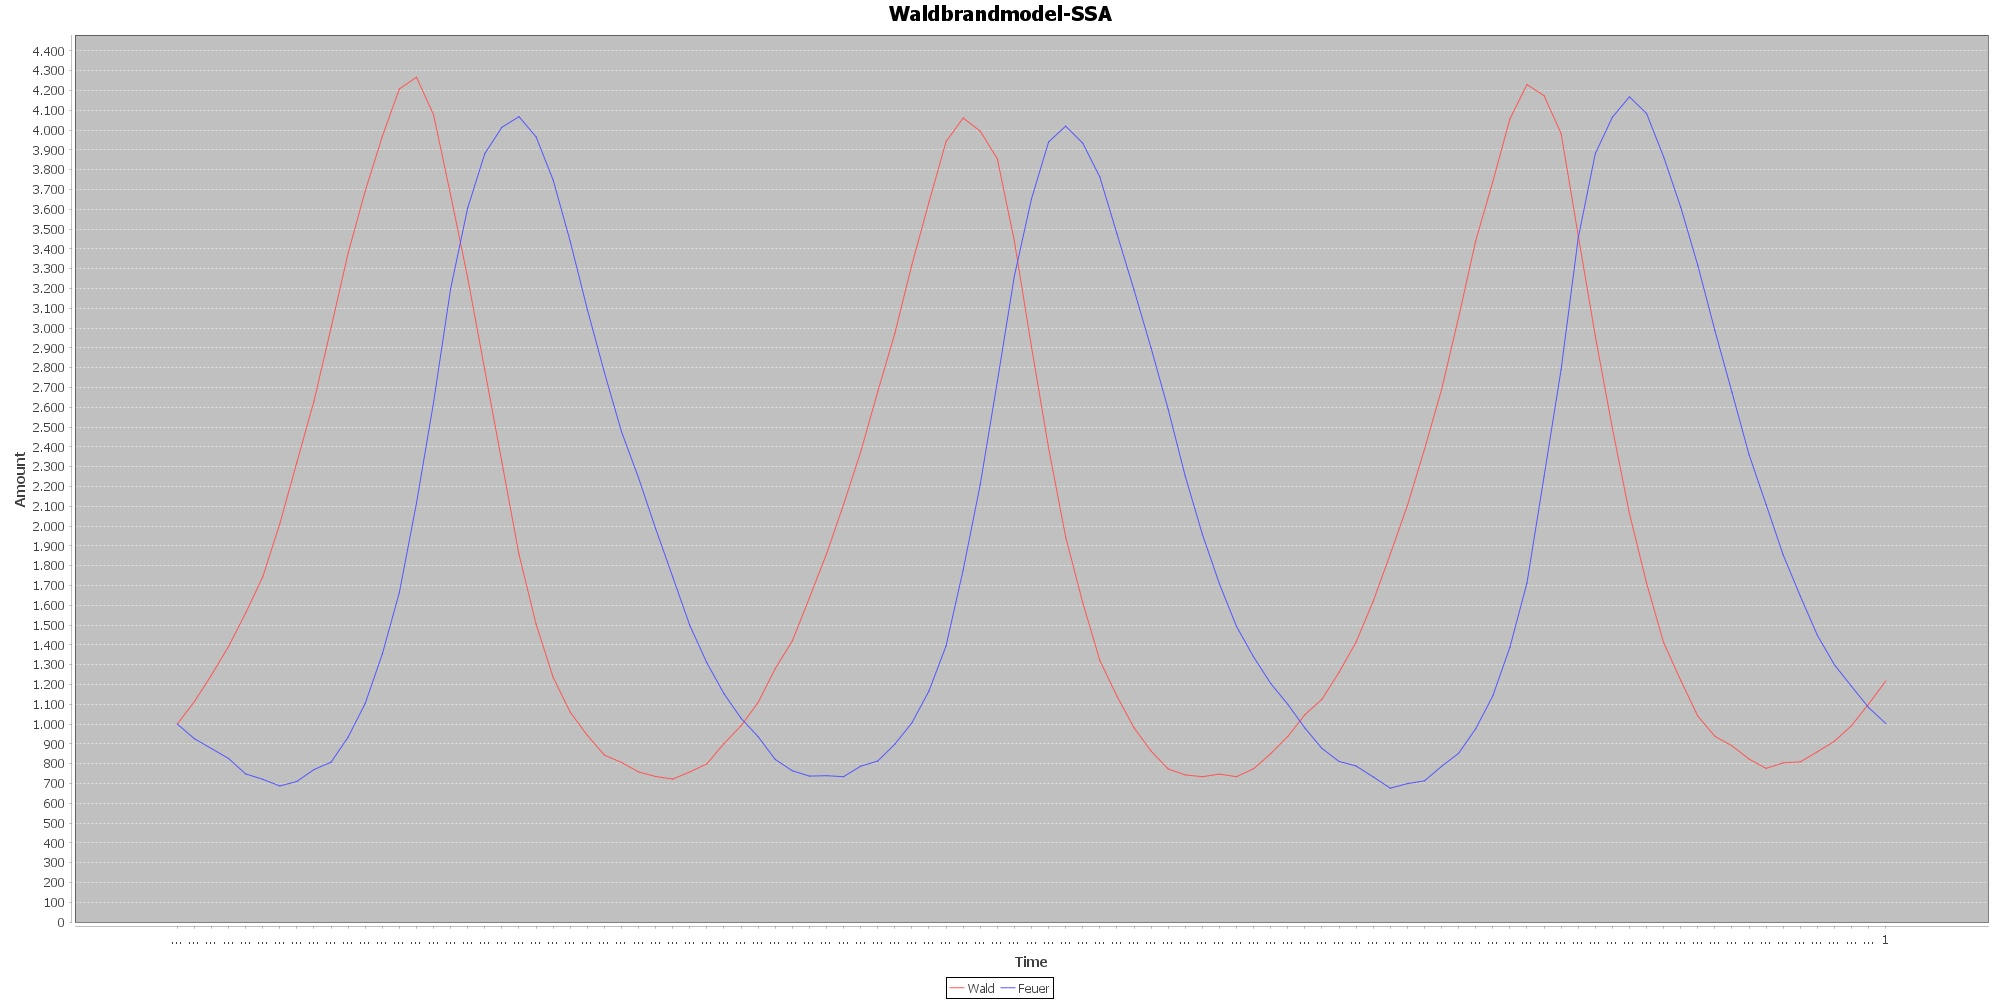
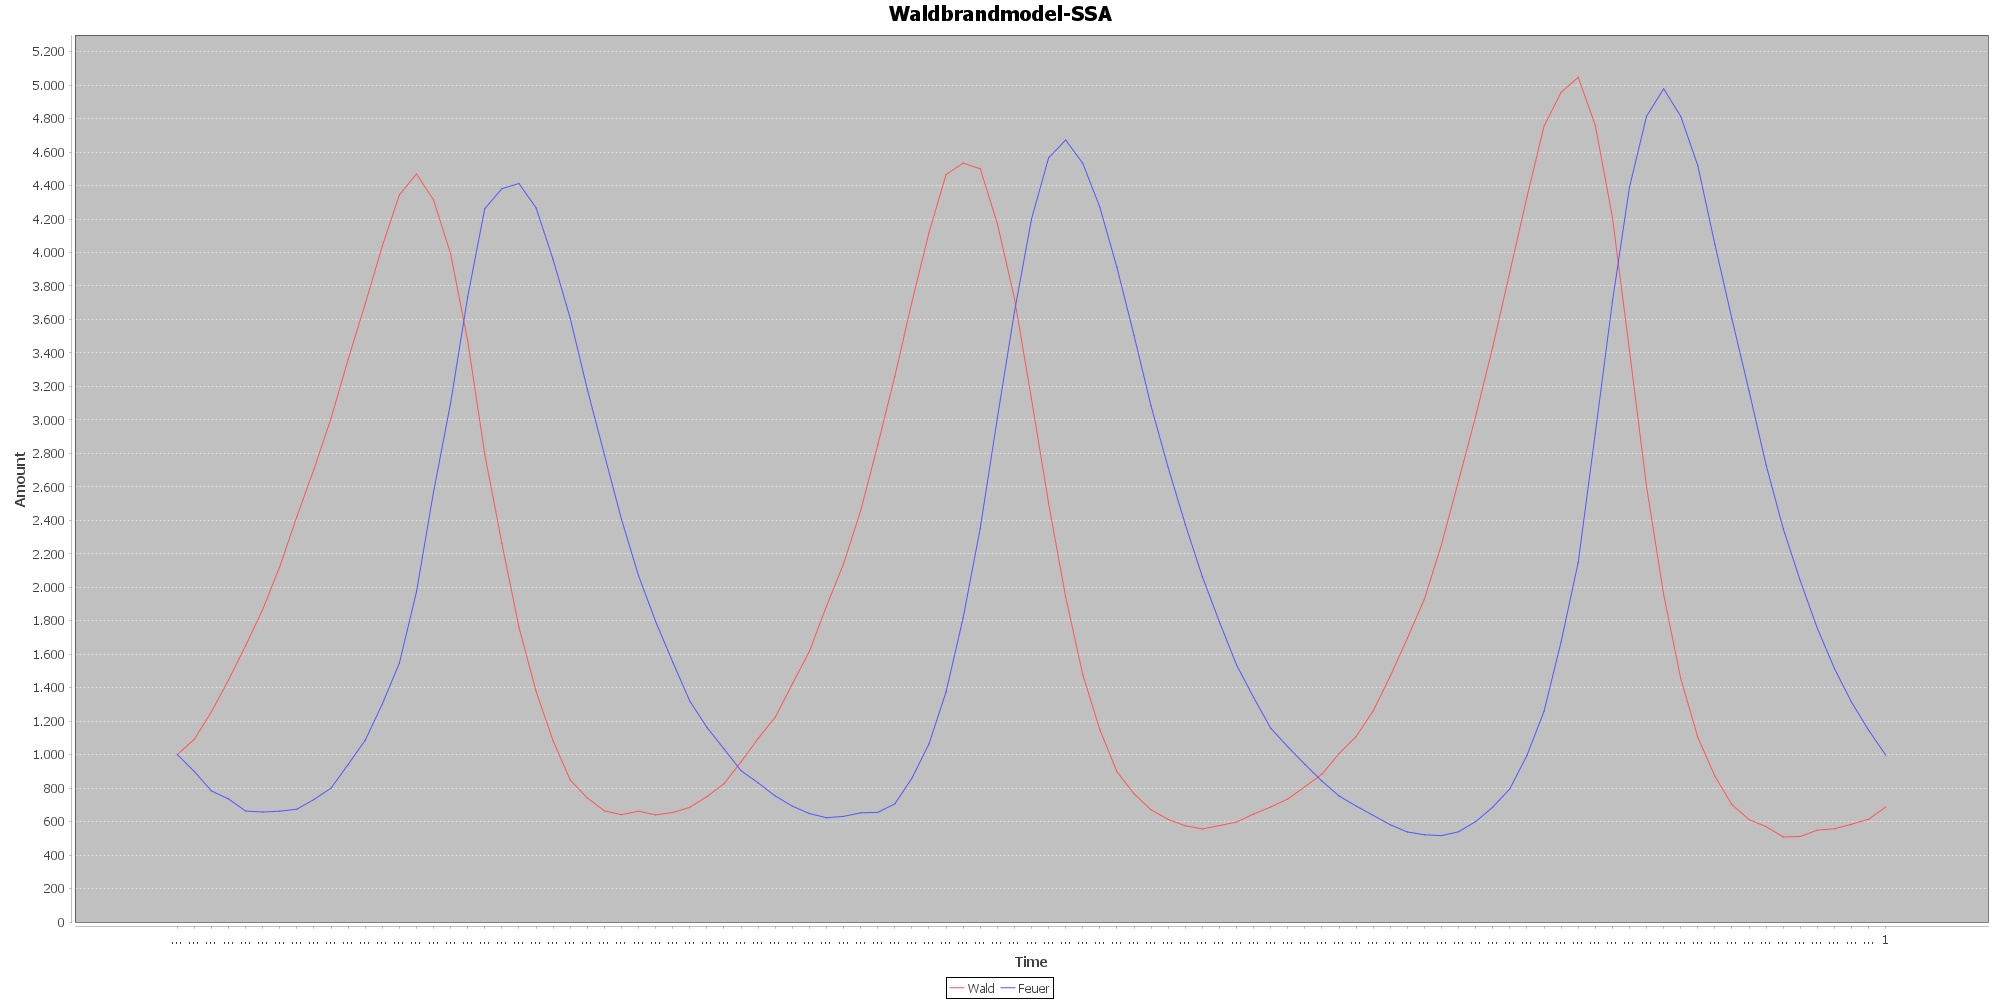
1&2 java komplete done

diff --git a/ha3/src/main/java/Main.java b/ha3/src/main/java/Main.java
@@ -3,26 +3,28 @@ import javax.swing.*;
 public class Main {
     public static void main(String[] args){
         double final_time = 1.0; // Zeiteinheiten bis zum Zeitpunkt 1.0
-        long sum = 0;
-        long wiederholung = 10;
-        long initialStep = 0;
-        double stepSum;
+        long sum;
+        int wiederholung = 100;
+        int initialStep = 0;
+        double stdab;
         double durchschnitt;
+        StandardAbweichung standardAbweichung = new StandardAbweichung(wiederholung);
 
         //Experiment
         while(initialStep<wiederholung) {
             DirectMethod dm = new DirectMethod(1000, 1000);
             dm.directMethod(final_time);
-            stepSum = dm.getMiddle_sum();
-            sum += stepSum;
+            standardAbweichung.insertElement(initialStep, dm.getMiddle_sum());
             initialStep++;
         }
 
+        sum = standardAbweichung.sum();
+        durchschnitt = standardAbweichung.durchschnitt();
+        stdab = standardAbweichung.stdAbw();
 
-        durchschnitt = sum/wiederholung;
         System.out.println("Sum =  " + sum);
         System.out.println("Durchschnitt =  " + durchschnitt);
-
+        System.out.println("Standardabweichung = " + stdab);
 
         /*Graph
         *

diff --git a/ha3/src/main/java/StandardAbweichung.java b/ha3/src/main/java/StandardAbweichung.java
@@ -1,0 +1,56 @@
+public class StandardAbweichung {
+    Long[] sa;
+    int elemnum;
+    double dn;
+    long sum;
+
+
+    public StandardAbweichung(int elemnum){
+         this.sa = new Long[elemnum];
+         this.elemnum = elemnum;
+    }
+
+    public void insertElement(int count, long element){
+
+        this.sa[count] = element;
+    }
+
+
+    public long sum(){
+        long sum = 0;
+        this.sum = sum;
+        Long[] newarr = this.sa.clone();
+        for(long i : newarr){
+            sum += i;
+        }
+        this.sum = sum;
+        return this.sum;
+    }
+
+    public double durchschnitt(){
+
+        this.dn = this.sum / this.elemnum;
+
+        return this.dn;
+    }
+
+    public double variance(){
+        double varianz = 0;
+
+        Long[] temparr = this.sa.clone();
+        for(long i : temparr){
+            varianz += Math.pow((i-dn),2);
+        }
+
+        varianz /= (this.elemnum - 1);
+
+
+
+        return varianz;
+    }
+
+    public double stdAbw(){
+        return Math.sqrt(variance());
+    }
+
+}

diff --git a/ha3/src/main/java/DirectMethod.java b/ha3/src/main/java/DirectMethod.java
@@ -169,8 +169,6 @@ public class DirectMethod {
             }
 
 
-
-
         }
         try{
             fileWriter.close();
